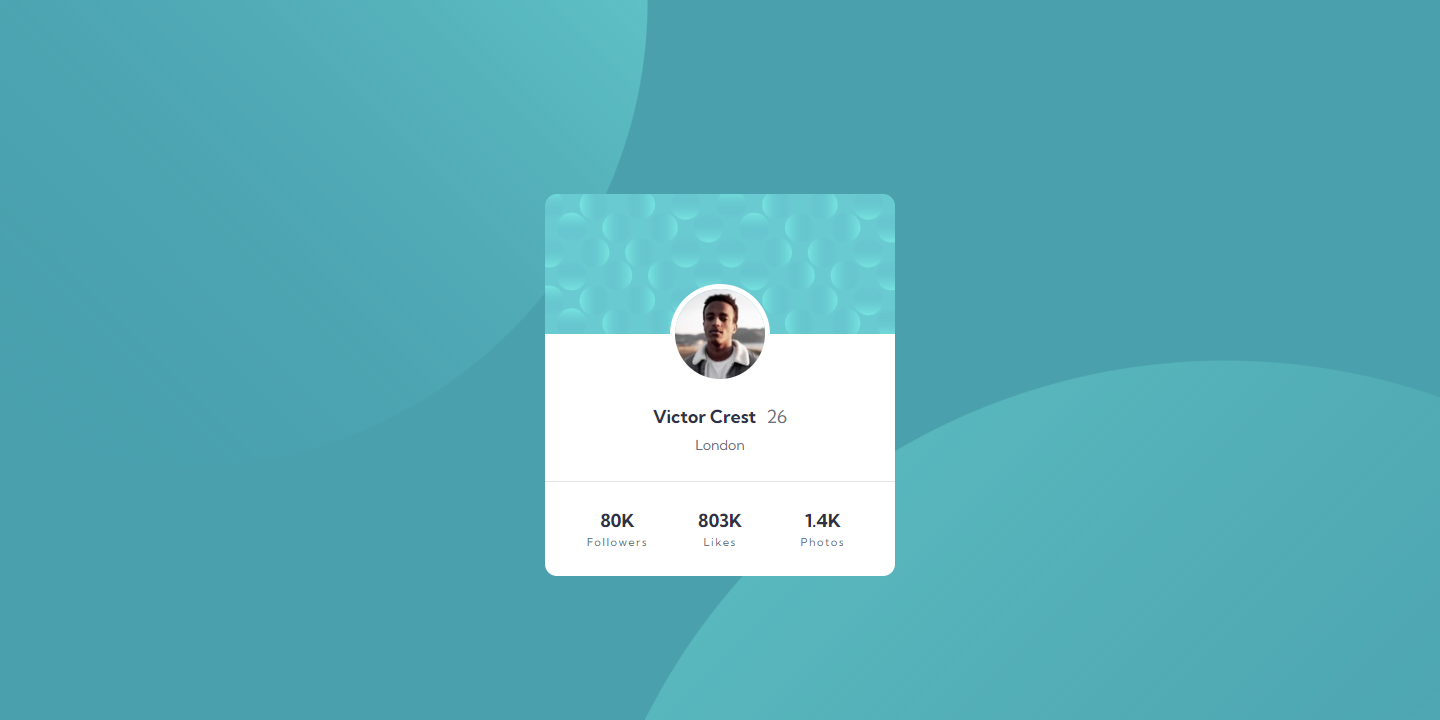
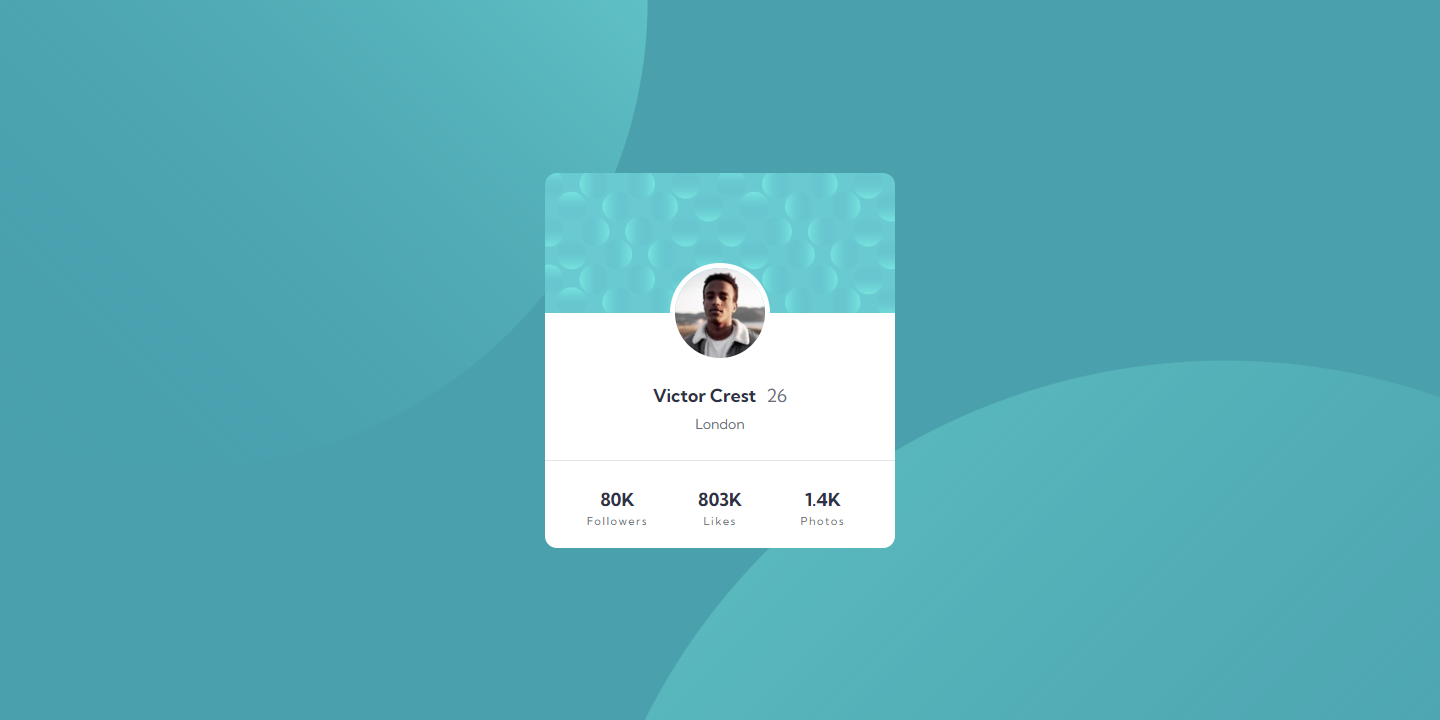
ReadMe updates, style cleanup, and style tweaks.

Changed region(s): [[0.375, 0.6722, 0.625, 0.825], [0.375, 0.3667, 0.625, 0.6417], [0.375, 0.2139, 0.625, 0.275]]

diff --git a/newbie/profile-card-component-main/src/theme/index.ts b/newbie/profile-card-component-main/src/theme/index.ts
@@ -14,12 +14,7 @@ export const myTheme = extendTheme({
                     md: 'url("./bg-pattern-top.svg") -50vw -40vh / 100vw no-repeat, url("./bg-pattern-bottom.svg") 40vw 55vh / 160vw no-repeat hsl(185, 75%, 39%)',
                     lg: 'url("./bg-pattern-top.svg") -20vw -65vh / 65vw 65vw no-repeat, url("./bg-pattern-bottom.svg") 40vw 50vh / 90vw 90vw no-repeat hsl(185, 75%, 39%)'
                 },
-                margin: {
-                    base: '25px auto'
-                },
                 bgColor: 'hsl(185, 75%, 39%)',
-                color: 'hsl(229, 23%, 23%)',
-                borderColor: 'hsl(227, 10%, 46%)'
             },
         }
     }

diff --git a/newbie/profile-card-component-main/src/App.tsx b/newbie/profile-card-component-main/src/App.tsx
@@ -36,6 +36,7 @@ function App() {
                     size='lg'
                     variant='filled'
                     minHeight='375px'
+                    maxHeight='375px'
                     minWidth={{base: '330px', lg: '350px'}}
                     maxWidth={{base: '330px', lg: '350px'}}
                     padding={0}

diff --git a/README.md b/README.md
@@ -1,5 +1,6 @@
 # Frontend Mentor Challenges
 
-| Level  | Challenge Title & Link                                                                     | Github Link                                                                        | Live Link                                                                | Used              |
-|--------|--------------------------------------------------------------------------------------------|------------------------------------------------------------------------------------|--------------------------------------------------------------------------|-------------------|
-| Newbie | [QR Code Component](https://www.frontendmentor.io/challenges/qr-code-component-iux_sIO_H/) | [GitHub](/newbie/qr-code-component) | [Replit](https://frontendmentor-qr-code-component.toolsareplit.repl.co/) | react, @chakra-ui |
+| Level  | Challenge Title & Link                                                                          | Github Link                                   | Live Link                                                                 | Used              |
+|--------|-------------------------------------------------------------------------------------------------|-----------------------------------------------|---------------------------------------------------------------------------|-------------------|
+| Newbie | [Profile Code Component](https://www.frontendmentor.io/challenges/profile-card-component-cfArpWshJ) | [GitHub](/newbie/profile-code-component-main) | [Netlify](https://fem-profile-component-main.netlify.app/) | react, @chakra-ui |
+| Newbie | [QR Code Component](https://www.frontendmentor.io/challenges/qr-code-component-iux_sIO_H/)      | [GitHub](/newbie/qr-code-component)           | [Replit](https://frontendmentor-qr-code-component.toolsareplit.repl.co/)  | react, @chakra-ui |

diff --git a/newbie/profile-card-component-main/README.md b/newbie/profile-card-component-main/README.md
@@ -15,4 +15,6 @@
 |Mobile| <img src="/newbie/profile-card-component-main/design/mobile-design.jpg" alt="Mobile Design" width="375px" alt="Mobile Design" href="/newbie/profile-card-component-main/design/mobile-design.jpg" target="_blank"> | <img src="/newbie/profile-card-component-main/solution/ag-profile-card-component-mobile.png" alt="Mobile Solution" width="375px" href="/newbie/profile-card-component-main/solution/ag-profile-card-component-mobile.png" target="_blank"> |
 
 ## Build Notes
+* Used `bg` shorthand in the theme extension to specify two background images, positions, sizes, and fallback color for the body background. Used responsive breakpoints to hit 375px and 1440px circle positioning targets. Added a medium breakpoint but didn't perfect it.
+* Used an array map for the statistics to avoid applying the same props three times.
 
